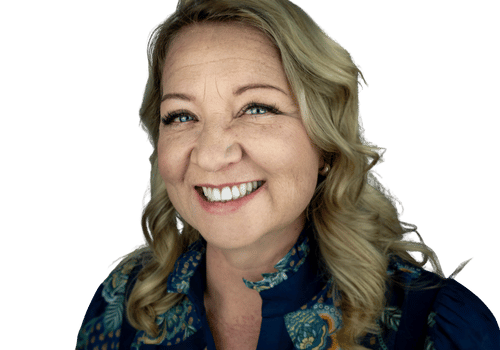
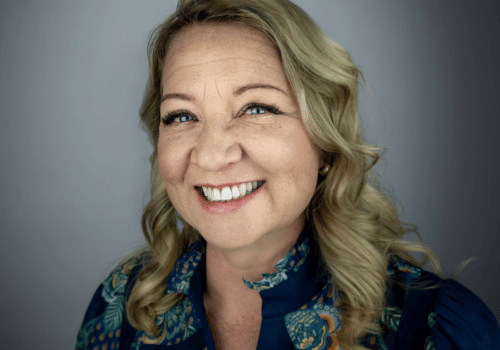
changes

diff --git a/src/app/about-us/components/HeadlineContent.js b/src/app/about-us/components/HeadlineContent.js
@@ -46,14 +46,14 @@ const HeadlineContent = () =>
                         <div className="about-hero--img-wrap hidden 768px:w-[61.75%] 1024px:w-auto 768px:flex items-end relative">
                             <Image
                                 src="/images/about-us-images/header-img-about-us.png"
-                                width={851}
-                                height={567}
+                                width={1312}
+                                height={800}
                                 alt="SecureCash about us hero image"
                                 priority
                                 fetchPriority="high"
                                 quality={80}
                                 sizes="(max-width: 1024px) 580px, 851px"
-                                className="absolute -left-7 768px:w-[580px] 1024px:w-[851px] 1200px:relative"
+                                className="absolute left-[-8.75rem] 992px:left-[-6.75rem]  1024px:left-[-5.75rem] 768px:w-[800px] 1024px:w-[1024px]"
                             />
                         </div>
                     </Container>

diff --git a/src/app/about-us/components/Banner.js b/src/app/about-us/components/Banner.js
@@ -7,15 +7,14 @@ const Banner = () =>
         <div id="about-us-banner" className="max-[414px]:mt-0">
             <div
                 id="banner-mid-content"
-                className="flex justify-center items-center flex-col pt-0 px-4 h-[360px] w-full mx-auto relative overflow-hidden"
+                className="flex justify-center items-center flex-col pt-0 px-4 h-[400px] w-full mx-auto relative overflow-hidden"
             >
                 <div className="absolute inset-0 w-full h-full">
                     <Image
-                        src="/images/banner-2.png"
+                        src="/images/banner/Web-corporate-funny.webp"
                         alt="SecureCash Team"
                         fill
                         loading="lazy"
-                        quality={75}
                         sizes="100vw"
                         className="object-cover object-center grayscale max-[414px]:object-[-1000px_center] brightness-50"
                     />

diff --git a/src/components/common/BottomBanner.js b/src/components/common/BottomBanner.js
@@ -11,7 +11,7 @@ const BottomBanner = () =>
       >
         <div className="absolute inset-0 w-full h-full">
           <Image
-            src="/images/banner/banner-1.png"
+            src="/images/banner/Web-corporate.webp"
             alt="SecureCash Team - Let us do the banking for you"
             fill
             loading="lazy"
